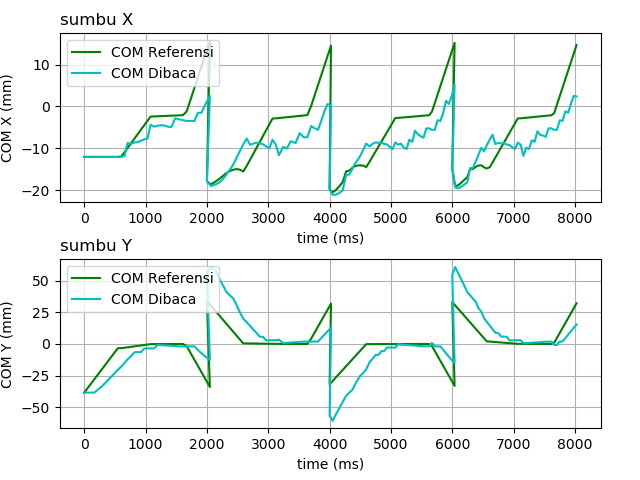
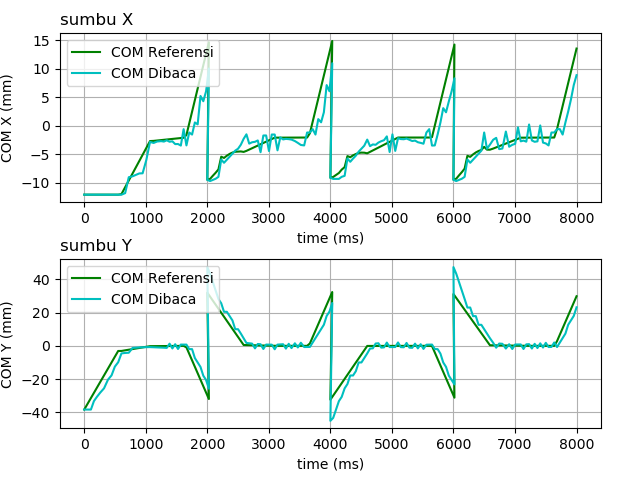
pola bener

diff --git a/scripts/rosCall.py b/scripts/rosCall.py
@@ -759,7 +759,7 @@ def walkUpdate3(robot,dxl,t,tsup,base,xGoal,firstStep,lastStep,condition='normal
             t1=0
             t2=tsup/4+0.1
             x1=comNow["x"]
-            x2=comXPolaPeriod[4]*(-1)
+            x2=comXPolaPeriod[4]*(-1)+10
             y1=comYPolaPeriod[4]*(-1)
             y2=yg*0
 
@@ -785,17 +785,10 @@ def walkUpdate3(robot,dxl,t,tsup,base,xGoal,firstStep,lastStep,condition='normal
         t1=(tsup/4)+0.1
         t2=(tsup/2)+0.1
         y1=comYPolaPeriod[1]
-        y2=yg*0  #yg*0
+        y2=yg*0 
         x1=comXPolaPeriod[1]
         x2=(xGoal*10/2)+comDef["x"]
         Xt=round(((t-t1)/(t2-t1)*(x2-x1))+x1,3)
-        # Xt=comDef["x"]
-        # if firstStep==1:
-        #     Xt=comDef["x"]
-        # elif firstStep==0:
-        #     x1=comXPolaPeriod[1]
-        #     x2=(xGoal*10/2)+comDef["x"]
-        #     Xt=round(((t-t1)/(t2-t1)*(x2-x1))+x1,3)
 
         Yt=round(((t-t1)/(t2-t1)*(y2-y1))+y1,3)
         comXPolaPeriod[2]=Xt
@@ -853,18 +846,6 @@ def walkUpdate3(robot,dxl,t,tsup,base,xGoal,firstStep,lastStep,condition='normal
             sfx=xGoal
         sfy=0
 
-        # Xt=((t-(3*tsup/4))*xGoal/(tsup/4))
-        # Yt=(4*yg)-((t-(3*tsup/4))*(4*yg)/(tsup/4))
-        # sfx=xGoal+((t-(3*tsup/4))*xGoal/(tsup/4))
-        # sfz = sH-((sH)*(1-sin((3.14*((t-(tsup/4))))/(tsup/2))))
-        # if sfz<0:
-        #     sfz=0
-
-        # if sfx>xGoal:
-        #     sfx=xGoal
-            
-        # sfy=0
-
         comXPolaPeriod[4]=Xt
         comYPolaPeriod[4]=Yt
         pttrn["Xt"],pttrn["Yt"],pttrn["sfx"],pttrn["sfy"],pttrn["sfz"],pttrn["xS"]=Xt,Yt,sfx,sfy,sfz,sfx
@@ -880,7 +861,6 @@ def walkUpdate3(robot,dxl,t,tsup,base,xGoal,firstStep,lastStep,condition='normal
     print("================================================")
 
     # return Xt,Yt,sfx,sfy,sfz
-
 
 def Control(robot,dxl,base,t,condition='normal'):
     t=t/1000000 # ubah t dari microsecond ke second
@@ -1194,10 +1174,10 @@ def tuningLQRdiskrit(condition):
     D = np.array([[0 ,0],[0, 0],[0,0],[0,0]])
 
     if condition=='walk':
-        Q = np.array([[2000,0,0,0], #roll
-                    [0,0.1,0,0], 
-                    [0,0,2000,0], #pitch
-                    [0,0,0,0.1]])
+        Q = np.array([[9000,0,0,0], #roll
+                    [0,1,0,0], 
+                    [0,0,6000,0], #pitch
+                    [0,0,0,1]])
 
     elif condition=='walkc':
         Q = np.array([[200,0,0,0], #roll

diff --git a/scripts/main.py b/scripts/main.py
@@ -316,7 +316,7 @@ base=-1 # -1 base kaki kiri, 1 base kaki kanan
 tsmp=0.1 #waktu sampling
 tsup=2 #waktu total satu langkah
 lastStep=0
-Q,K=tuningLQR('walk') #tuning LQR untuk mendapatkan nilai K
+Q,K=tuningLQRdiskrit('walk') #tuning LQR untuk mendapatkan nilai K
 
 allPttrnXt=[]
 allPttrnYt=[]
@@ -395,7 +395,7 @@ while(1):
 # df.to_excel(loc, index=True)
 # print("data diinput ke excel bernama : %s.xlsx" % filename)
 
-# print("K",K)
+print("K",K)
 
 # wb=load_workbook(loc)
 # sh=wb.worksheets[0]
